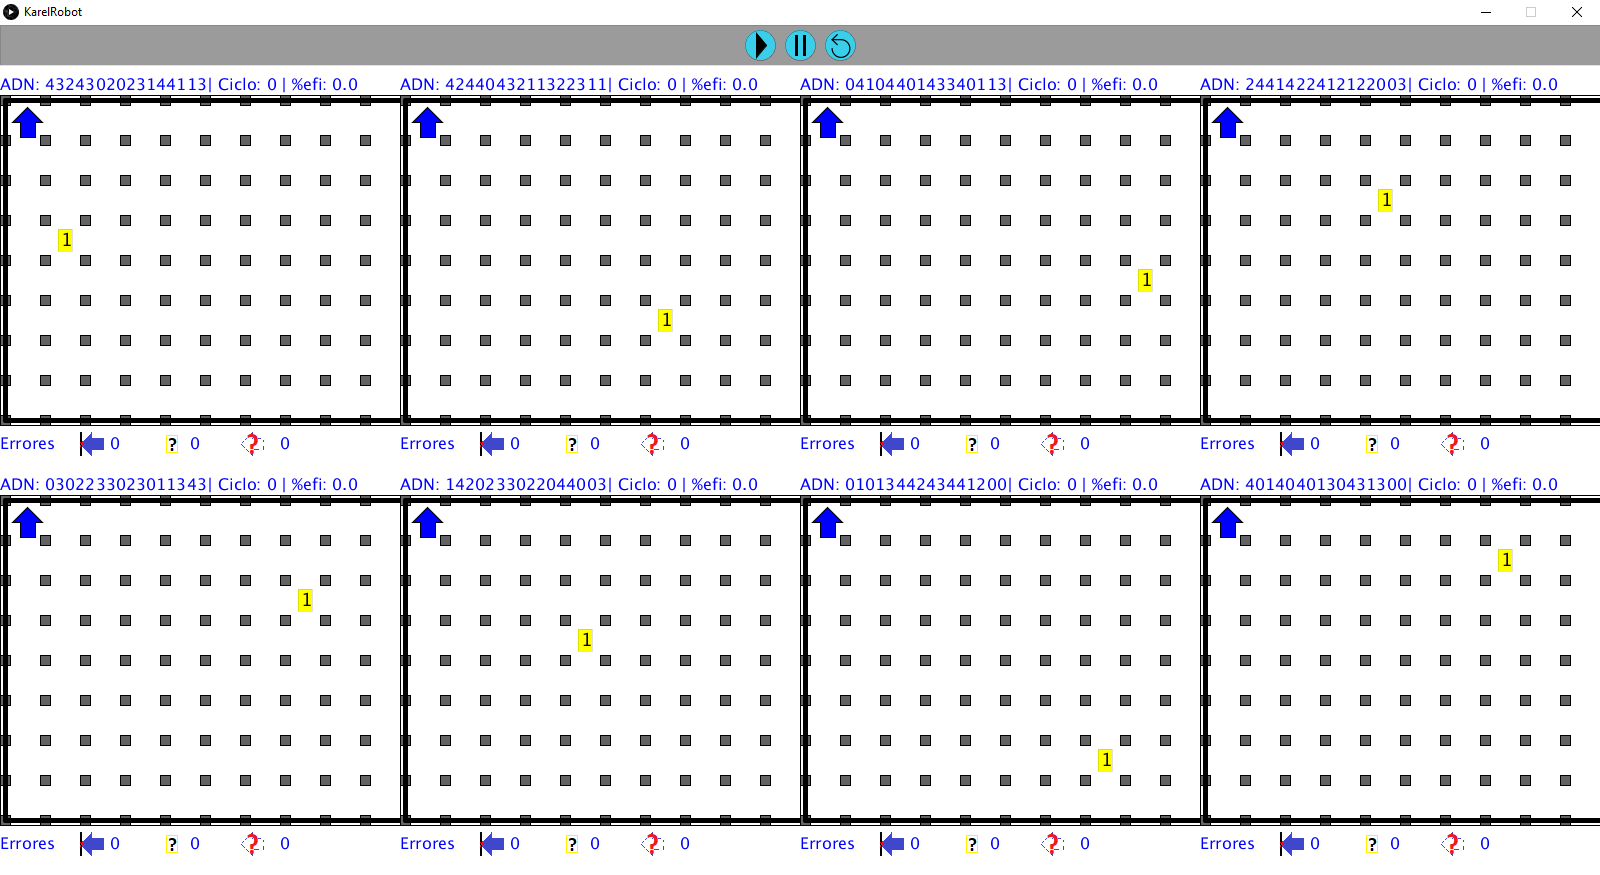
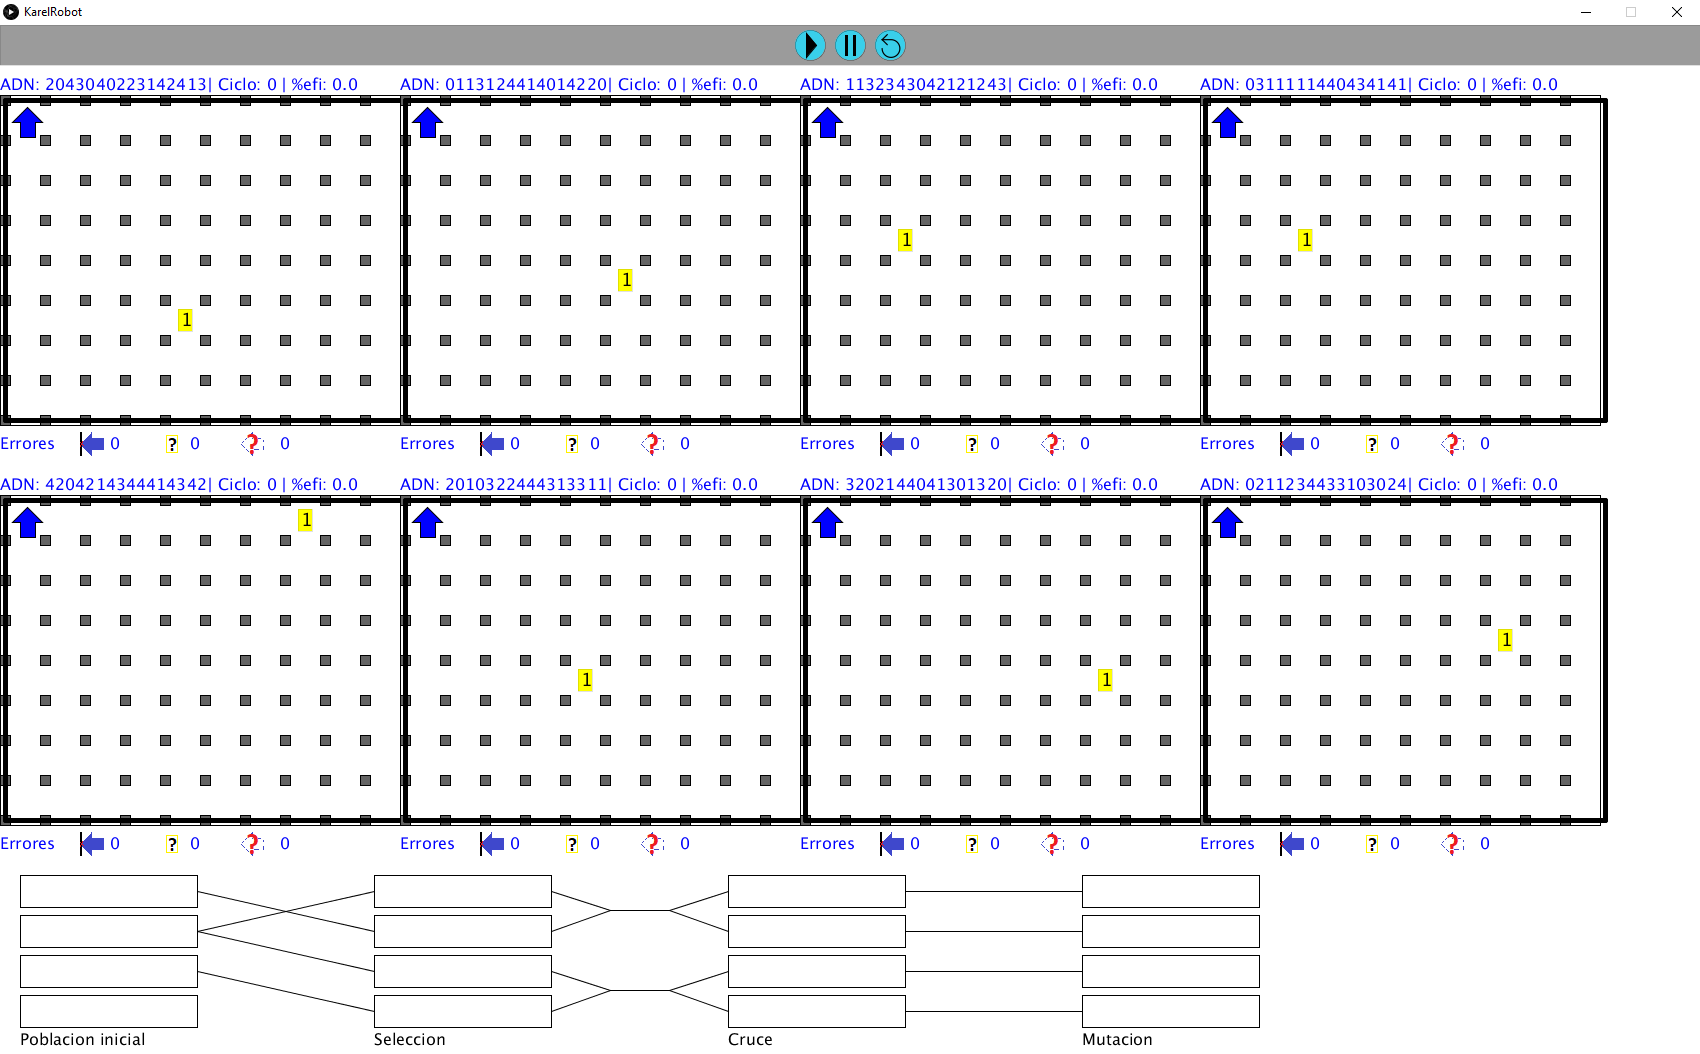
Update #3
Added all the graphical representation of the genetic algorithm displayed on the screen

Changed region(s): [[0.0, 0.0, 1.0, 1.0], [0.875, 0.8331, 0.9062, 0.8949]]

diff --git a/README.md b/README.md
@@ -1,5 +1,5 @@
 # Karel-AI
-![version](https://img.shields.io/badge/version-v0.24-lightgrey)
+![version](https://img.shields.io/badge/version-v0.25-lightgrey)
 ![license](https://img.shields.io/badge/license-GNU%20GPL%20v3-blue) <br>
 [![LinkedIn](https://img.shields.io/badge/-LinkedIn-black.svg?style=social&logo=linkedin&colorB=555)](https://www.linkedin.com/in/luis-fernando-rojas-gonz%C3%A1lez-792a431a3/) <br>
 
